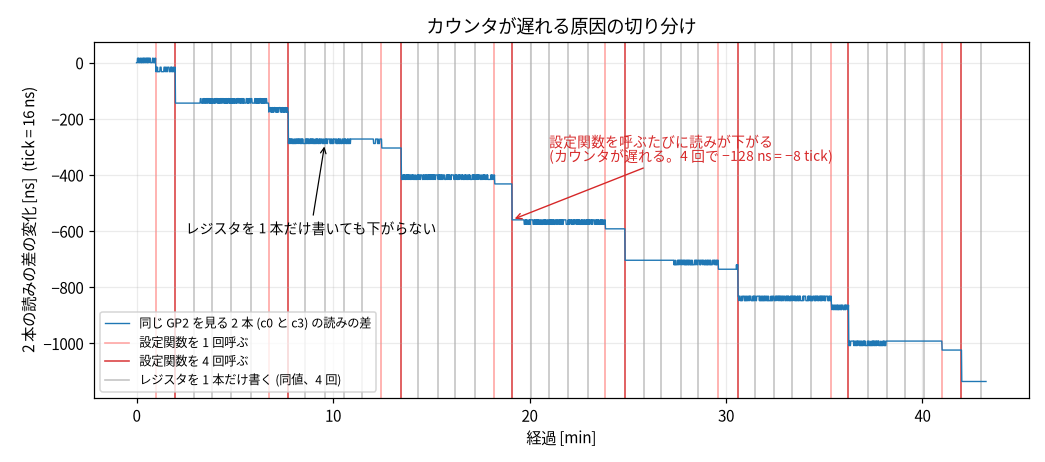
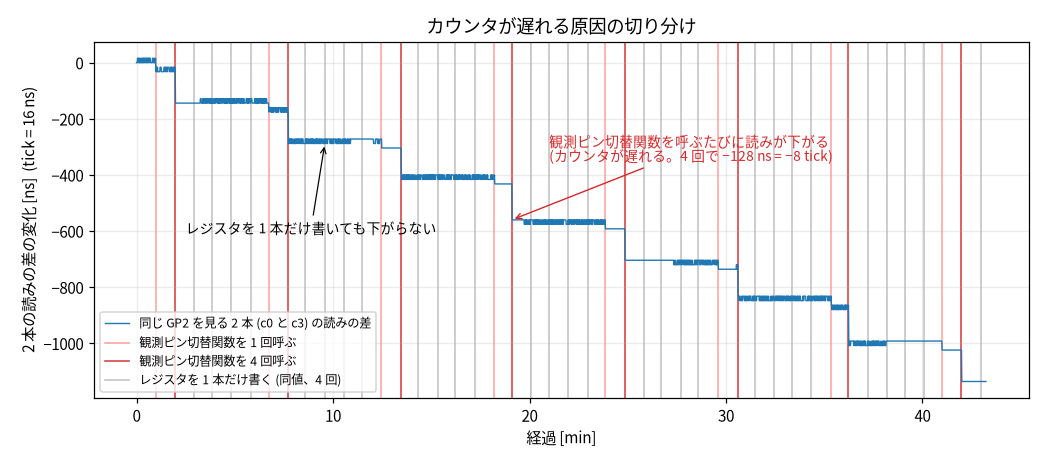
docs(precision): 「設定関数」→「観測ピン切替関数」に改称
観測ピンの切り替えに呼ぶ関数、と役割で呼ぶ。本文で set_config と結び付けて
導入 (「PIO ライブラリの set_config で行っている。ピンを切り替えるのに呼ぶので
観測ピン切替関数と呼ぶ」)。fig-kpoke-poke の凡例・注釈も追随。

Claude-Session: https://claude.ai/code/session_01QA3SZ4k1hmnnVeG51UZWBZ

Changed region(s): [[0.5206, 0.2727, 0.7962, 0.3333], [0.1225, 0.7273, 0.2756, 0.8182]]

diff --git a/pico-gnss/src/main.rs b/pico-gnss/src/main.rs
@@ -546,18 +546,6 @@ fn now_local_ns() -> u64 {
     Instant::now().as_micros() * 1000
 }
 
-/// 走行中 capture SM の jmp_pin だけを execctrl 経由で切替える (GP2↔GP4)。**set_config は使わない**:
-/// use_program 済み config だと末尾で exec_jmp(origin) を呼び、走行中 SM の PC を先頭へ強制ジャンプさせる。
-/// capture SM で pin high 中にこれをやると先頭 jmp pin rising が即 capture 経路へ入り、4 サイクル無減算 =
-/// 自走カウンタ X が −2 tick 損し、偽 push も 1 個出る (KPOKE 実験 20260704 で実証)。jmp_pin レジスタだけ
-/// 書けば program/clkdiv/pindirs は不変 (cfg_gp2/cfg_gp4 は jmp_pin 以外同一) なので X を乱さず切替えられる。
-fn switch_jmp_pin(sm: usize, pin: u8) {
-    embassy_rp::pac::PIO0
-        .sm(sm)
-        .execctrl()
-        .modify(|w| w.set_jmp_pin(pin));
-}
-
 /// PIO がラッチした PPS エッジを読み、間隔を ns で求めて出す + 周波数を規律するタスク。
 #[embassy_executor::task]
 async fn pps_task(
@@ -688,9 +676,8 @@ async fn recal_k(
     k: u32,
     last_period: u32,
 ) -> u32 {
-    // SM2 を GP2 へ (jmp_pin だけ切替。set_config は exec_jmp(origin) で走行中 SM の X に −2 tick の段を作る
-    // ため使わない。KPOKE 実験 20260704 で実証)。cfg_gp2 と cfg_gp4 は jmp_pin 以外同一なので register 直書きで足りる。
-    switch_jmp_pin(2, cfg_gp2.get_exec().jmp_pin);
+    // SM2 を GP2 へ (jmp_pin だけ替わる同一 program。set_config は X を触らないので K の基準カウンタは不変)。
+    sm.set_config(cfg_gp2);
     while sm.rx().try_pull().is_some() {} // 切替前後の stale/in-flight 捕捉を捨てる
     let mut samples: heapless::Vec<(u32, u32), 8> = heapless::Vec::new();
     for i in 0..RECAL_SAMPLES {
@@ -735,8 +722,8 @@ async fn recal_k(
         }
         let _ = samples.push((c0, c2));
     }
-    // SM2 を GP4 へ戻す (jmp_pin だけ切替、X 保持)。drain して次の GP4 捕捉が新鮮な出力エッジになるように。
-    switch_jmp_pin(2, cfg_gp4.get_exec().jmp_pin);
+    // SM2 を GP4 へ戻す (X 保持)。drain して次の GP4 捕捉が新鮮な出力エッジになるように。
+    sm.set_config(cfg_gp4);
     while sm.rx().try_pull().is_some() {}
     // 評価: spread ゲート → mean → |Δk| cap。怪しければ旧 k 維持 (誤った K で出力を飛ばさない)。
     if samples.len() < 3 {
@@ -1332,14 +1319,11 @@ async fn main(spawner: Spawner) {
             }
         }
 
-        // SM2 を GP4 (ループバック) に切替。jmp_pin レジスタだけ書く (set_config は exec_jmp(origin) で走行中
-        // SM の X に −2 tick の段を作る。これは K 測定の後なので K に取り込まれず、ピン上の +32ns 固定オフセットに
-        // なっていた。KPOKE 実験 20260704 で実証)。cfg_gp4 は recal_k / gen_capture_task へ move するので生成は残す。
-        // enable 前に set_config(&cfg_gp2) 済み (program/clkdiv/pindirs は cfg_gp4 と同一) なので jmp_pin 切替で足りる。
+        // SM2 を GP4 (ループバック) に切替。set_config は X を触らないので K は有効のまま。
         let mut cfg_gp4 = PioConfig::default();
         cfg_gp4.use_program(&lb_loaded, &[]);
         cfg_gp4.set_jmp_pin(&lb_pin);
-        switch_jmp_pin(2, cfg_gp4.get_exec().jmp_pin);
+        sm2.set_config(&cfg_gp4);
 
         // SM1: 規律 PPS 生成を GP3 へ (rp-pps の SteeredPpsOutput)。初期周期 = ppb=0 の 1Hz (内部で
         // output_period_cycles)。周期は gen_capture_task が毎エッジ set_next_period で操舵する
@@ -1364,7 +1348,6 @@ async fn main(spawner: Spawner) {
         info!("KEXPCFG sm3=gp2 prog=lb_loaded (pure observer, not in control)");
 
         // pps_task と gen_capture を高優先度割込エグゼキュータで起動 (ウェイクアップ遅延 ms→µs)。
-        // cfg_gp2 は Copy なので gen_capture_task へも渡せる (SM2 の再較正切替に使う)。
         spawner_high.spawn(pps_task(capture, sm3).unwrap());
         spawner_high.spawn(gen_capture_task(output, sm2, k, cfg_gp2, cfg_gp4).unwrap());
     } else {

diff --git a/docs/report/precision-ladder/README.md b/docs/report/precision-ladder/README.md
@@ -215,12 +215,12 @@ PLL を入れると内部の loopback 位相は 0 付近に寄る。ただ、内
 
 この第一歩は、3 本目をただ足して見張るだけだ。狙いどおりに切り分けられた。同じ GP2 を見る c0 − c3 は、2.4 時間ずっと平坦で (傾き 0.000 ns/min、残るは量子化の ±1 tick だけ)、カウンタごとの癖は無罪になった (同じものを見る 2 本は完全に歩調を合わせたまま)。しかもスリップの本体 c0 − c2 の −4 tick は、オシロで見るピンの上には出ない (2.4 時間平坦、傾き −0.006 ns/min)。ピンに出ないのだから、波形依存のように本物のドリフトが溜まっているのではなく、校正の切り替えが内部の読みにだけ作る見かけだ。実際この −4 tick は毎回ほぼ一定で (56 回中 42 回がぴったり) 温度とも無相関、連続ドリフトではなく校正 1 回ごとの固定量だった。切り替えが作り、次の校正が測り直して自分で打ち消す。こうして犯人は校正の切り替えに絞れた。
 
-犯人が校正の切り替えだと分かっても、それだけでは直せない。切り替えの何が tick を奪うのかが分からないからだ。カウンタ (ステートマシン) がどのピンを見てどう回るかは、いくつかの設定レジスタで決まる。ピンを GP4 から GP2 へ変えるのは、本来そのうち「どのピンを見るか」の 1 つを書き換えるだけでいい。ところが firmware は、PIO を操作するライブラリが用意した設定関数でこれをやっている。この関数は、ピンだけ変えたいときでも設定レジスタ一式 (クロック分周や FIFO など) を毎回まとめて書き直し、しかも最後に、走行中のプログラムを top へ強制的に跳ばせる。
+犯人が校正の切り替えだと分かっても、それだけでは直せない。切り替えの何が tick を奪うのかが分からないからだ。カウンタ (ステートマシン) がどのピンを見てどう回るかは、いくつかの設定レジスタで決まる。ピンを GP4 から GP2 へ変えるのは、本来そのうち「どのピンを見るか」の 1 つを書き換えるだけでいい。ところが firmware は、これを PIO ライブラリの set_config で行っている。ピンを切り替えるのに呼ぶので、以下これを観測ピン切替関数と呼ぶ。この関数は、ピンだけ変えたいときでも設定レジスタ一式 (クロック分周や FIFO など) を毎回まとめて書き直し、しかも最後に、走行中のプログラムを top へ強制的に跳ばせる。
 
 ```text
-sm.set_config(cfg_gp2);   // 校正の切り替え = この 1 行 (c2 を GP2 へ向ける)
+sm.set_config(cfg_gp2);   // 観測ピン切替 = この 1 行 (c2 を GP2 へ向ける)
 
-// set_config の中身 (ライブラリ側、簡略化)
+// 観測ピン切替関数 (set_config) の中身 (ライブラリ側、簡略化)
 fn set_config(cfg) {
     write CLKDIV / EXECCTRL / SHIFTCTRL / PINCTRL;  // 設定レジスタ一式 (見るピンは EXECCTRL の一部)
     exec_jmp(top);  // ← これが怪しい。走行中の SM を top へ強制ジャンプする
@@ -230,7 +230,7 @@ fn set_config(cfg) {
 exec_jmp が tick を奪う理由は、捕捉プログラムの中身にある。大事なのは、X は勝手に進むのではなく、プログラムが `X = X - 1` を実行したときだけ 1 tick 進む点だ (これが 16 ns 刻みの正体)。前に載せた擬似コードでは省いたが、実物はこうなっている。
 
 ```text
-top:                          // 設定関数はここへ強制ジャンプさせる
+top:                          // 観測ピン切替関数はここへ強制ジャンプさせる
     jmp capture if pin high   // 立ち上がっていれば捕捉へ
     X = X - 1                 // 立ち上がり待ち。ここで 1 tick 進む
     jmp top
@@ -244,23 +244,23 @@ fall:
 
 ふだん捕捉に入るのは本物の立ち上がり 1 回だけで、そこで X が進まない数サイクルは全カウンタで同じ、差を取れば消える。ところが校正の切り替えがこのプログラムを top へ飛ばすのは、エッジ処理の直後、パルスがまだ high の最中だ。pin はもう high なので「立ち上がり待ち」を素通りして即「捕捉」に入り、`X = X - 1` の無い捕捉の命令をもう一度走ってしまう (偽の捕捉)。強制ジャンプと余分な捕捉で X が進まない 4 サイクル、1 tick は 2 サイクルだから、切り替え 1 回あたり 2 tick 進み損ねる。これが立てた仮説だ。
 
-この仮説が正しければ、確かめられることが 2 つある。tick を奪うのが設定関数の最後の強制ジャンプなら、レジスタを 1 本ずつ同じ値で書くだけでは読みは下がらず、設定関数を呼んだときだけ下がるはずだ。もう 1 つ、偽の捕捉のぶん、FIFO に 1 個余分に積まれるはずだ。
+この仮説が正しければ、確かめられることが 2 つある。tick を奪うのが観測ピン切替関数の最後の強制ジャンプなら、レジスタを 1 本ずつ同じ値で書くだけでは読みは下がらず、観測ピン切替関数を呼んだときだけ下がるはずだ。もう 1 つ、偽の捕捉のぶん、FIFO に 1 個余分に積まれるはずだ。
 
-確かめ方は第一歩と同じ 3 本目を使う。ただし今度は見張るのではなく、この設定関数を、ふだん切り替わらない 3 本目にわざと打ち込む (純観測なので何をしても制御に響かない)。設定関数を呼ぶ場合と、レジスタを 1 本だけ同じ値で書く場合とを打ち分けて、c0 − c3 が下がるかを見る。
+確かめ方は第一歩と同じ 3 本目を使う。ただし今度は見張るのではなく、この観測ピン切替関数を、ふだん切り替わらない 3 本目にわざと打ち込む (純観測なので何をしても制御に響かない)。観測ピン切替関数を呼ぶ場合と、レジスタを 1 本だけ同じ値で書く場合とを打ち分けて、c0 − c3 が下がるかを見る。
 
-![設定関数を呼ぶたびに読みが下がり (4 回呼ぶと −128 ns = −8 tick)、レジスタを 1 本だけ書いても下がらない](precision-figs/fig-kpoke-poke.png)
+![観測ピン切替関数を呼ぶたびに読みが下がり (4 回呼ぶと −128 ns = −8 tick)、レジスタを 1 本だけ書いても下がらない](precision-figs/fig-kpoke-poke.png)
 
-実際、レジスタを 1 本だけ書いてもどれも下がらず、設定関数を呼んだときだけ、1 回につきちょうど 2 tick 下がった。つまり犯人は、レジスタの書き直し (クロック分周も含めて) ではなく、設定関数が最後に打つ exec_jmp のほうだ。偽の捕捉で積まれる余分な 1 個も、FIFO にそのまま出ていた。定期校正は GP2 へ向ける切り替えと GP4 へ戻す切り替えで 2 回起きるので、1 回の校正あたり −4 tick になる。
+実際、レジスタを 1 本だけ書いてもどれも下がらず、観測ピン切替関数を呼んだときだけ、1 回につきちょうど 2 tick 下がった。つまり犯人は、レジスタの書き直し (クロック分周も含めて) ではなく、観測ピン切替関数が最後に打つ exec_jmp のほうだ。偽の捕捉で積まれる余分な 1 個も、FIFO にそのまま出ていた。定期校正は GP2 へ向ける切り替えと GP4 へ戻す切り替えで 2 回起きるので、1 回の校正あたり −4 tick になる。
 
 この機構は、+33 ns の固定のズレの正体でもあった。校正は起動時も定期も、カウンタのズレを測り終えてから出力側のピンへ切り替えて戻る。この戻しの切替で失う 2 tick (32 ns) は、いま測ったばかりのズレには入っていない。次の校正まではそのズレのまま制御し、制御は loopback 位相を 0 に保つから、ズレに入らなかった 32 ns はそのままピンの上へ押し出される。どの校正の直後も同じだけ取りこぼすので、出力は常に +32 ns 側へ座り続ける。配線やプローブの遅れと考えていた +33 ns は、ほぼまるごとこの取りこぼしだった。
 
-直し方は、実験がそのまま教えてくれる。切替のときに設定関数を呼ぶのをやめ、どのピンを見るかのレジスタフィールドだけを書き換える。
+直し方は、実験がそのまま教えてくれる。切替のときに観測ピン切替関数を呼ぶのをやめ、どのピンを見るかのレジスタフィールドだけを書き換える。
 
 ```text
 sm.execctrl().modify(|w| w.set_jmp_pin(GP2));  // 見るピン (EXECCTRL の一部) だけ書く。exec_jmp は起きない
 ```
 
-設定関数を通さずレジスタを直接書くだけなら読みは下がらないことは、上の実験で確認済みだ。1 時間の検証で、定期校正が測るズレは 23 回中 20 回が −1 tick になり、ぴったり −4 は消えた。ピンの上の中心も、修正直前の計測の +46 ns (中心そのものがゆっくりゆらぐので、窓の取り方で +33〜+46 ns を動く) から +9 ns へ動いた。移動量の約 37 ns は、取りこぼしていた 32 ns と、このゆらぎの誤差の範囲で一致する。ここまでの節で +33 ns と書いてきた中心は、この修正のあとは +9 ns 前後になる。動いたのは中心 (系統オフセット) だけで、ばらつき (遅いふらつき) は受信律速のまま変わらない。この修正が正すのは精度ではなく、firmware が自分で作っていた 32 ns のかたよりだ。
+観測ピン切替関数を通さずレジスタを直接書くだけなら読みは下がらないことは、上の実験で確認済みだ。1 時間の検証で、定期校正が測るズレは 23 回中 20 回が −1 tick になり、ぴったり −4 は消えた。ピンの上の中心も、修正直前の計測の +46 ns (中心そのものがゆっくりゆらぐので、窓の取り方で +33〜+46 ns を動く) から +9 ns へ動いた。移動量の約 37 ns は、取りこぼしていた 32 ns と、このゆらぎの誤差の範囲で一致する。ここまでの節で +33 ns と書いてきた中心は、この修正のあとは +9 ns 前後になる。動いたのは中心 (系統オフセット) だけで、ばらつき (遅いふらつき) は受信律速のまま変わらない。この修正が正すのは精度ではなく、firmware が自分で作っていた 32 ns のかたよりだ。
 
 ![切替修正の前後。左: 定期校正 1 回あたりのカウンタのズレの測り直し量は −4 tick 中心から −1 tick 中心になる。右: ピンの上のズレの中心は +46 ns から +9 ns へ動く](precision-figs/fig-kslip-fix.png)
 
